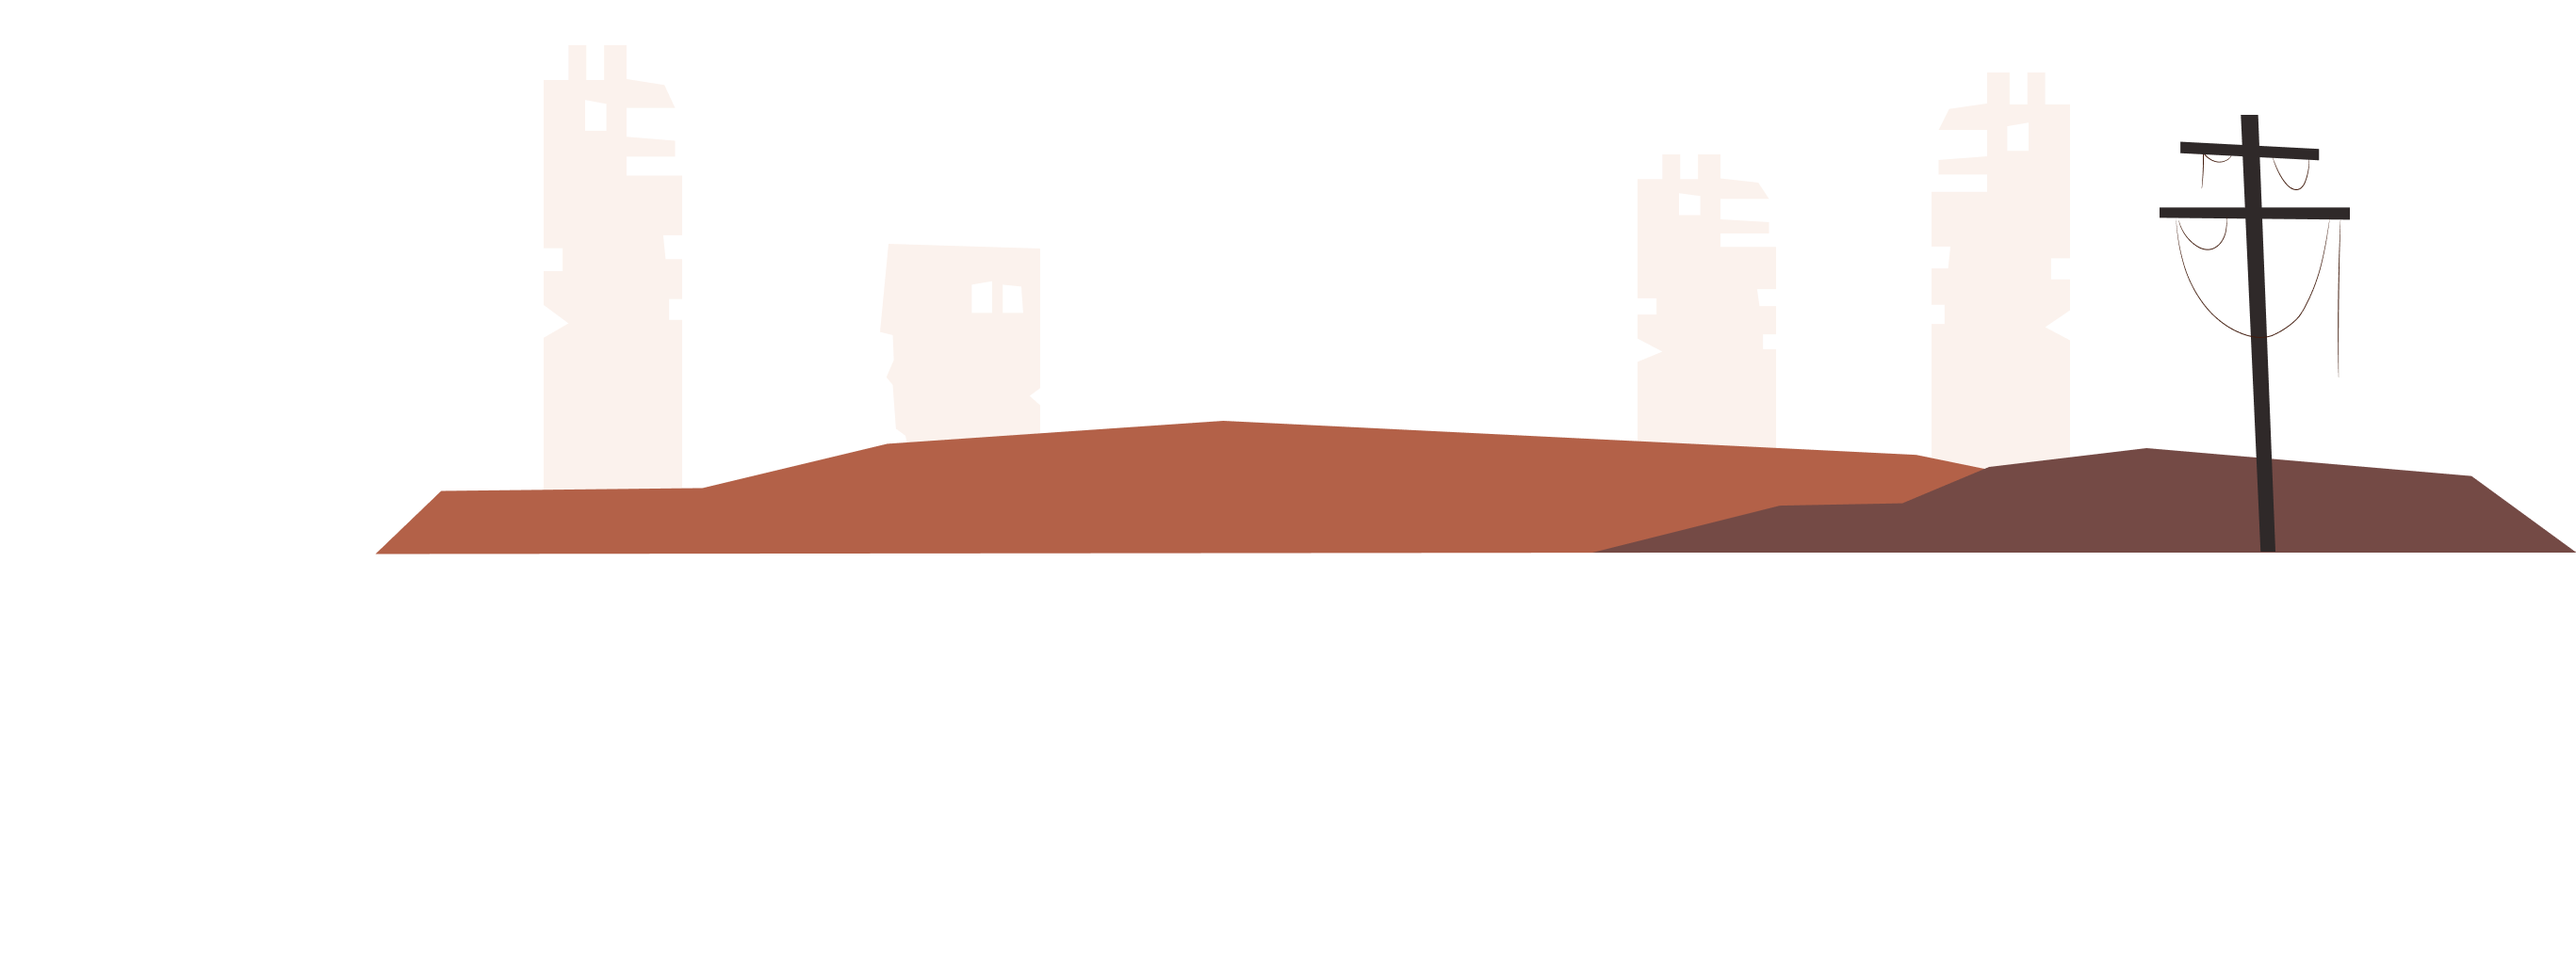
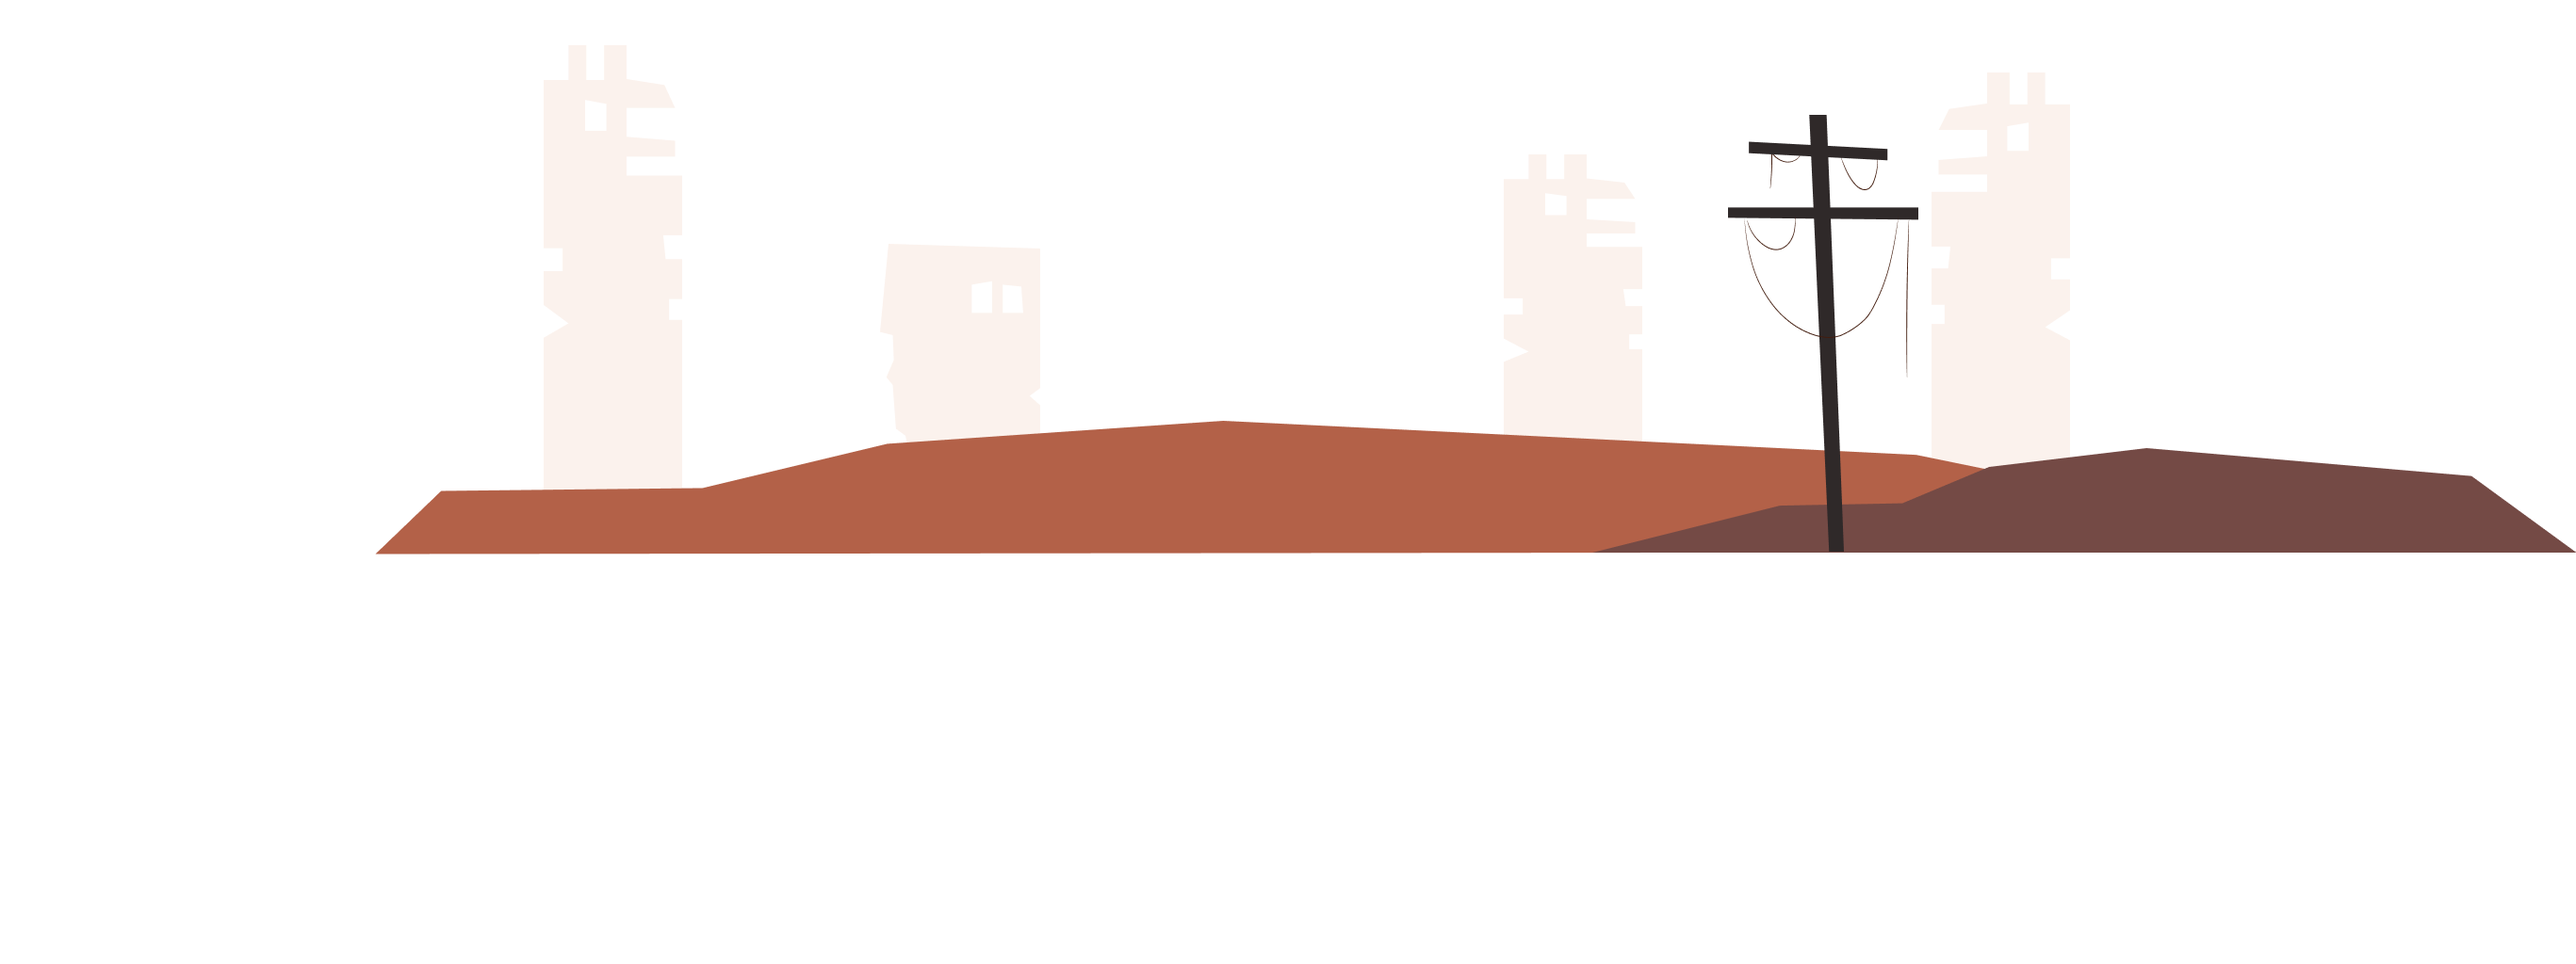
image update chapter-4

Changed region(s): [[0.8394, 0.125, 0.9327, 0.5625], [0.6529, 0.125, 0.7462, 0.5625]]

diff --git a/components/Chapter4.vue b/components/Chapter4.vue
@@ -100,8 +100,8 @@ export default {
         scrollTween(newValue, oldValue){
             if (newValue ) {
                 var motion = [
-                    {obj:this.$refs['parallax-bg'], intensity:-3},
-                    {obj:this.$refs['parallax-ft'], intensity:-5},
+                    {obj:this.$refs['parallax-bg'], intensity:-1},
+                    {obj:this.$refs['parallax-ft'], intensity:-3},
                 ];
                 motion.forEach(item => {
                     this.parallaxMove({
